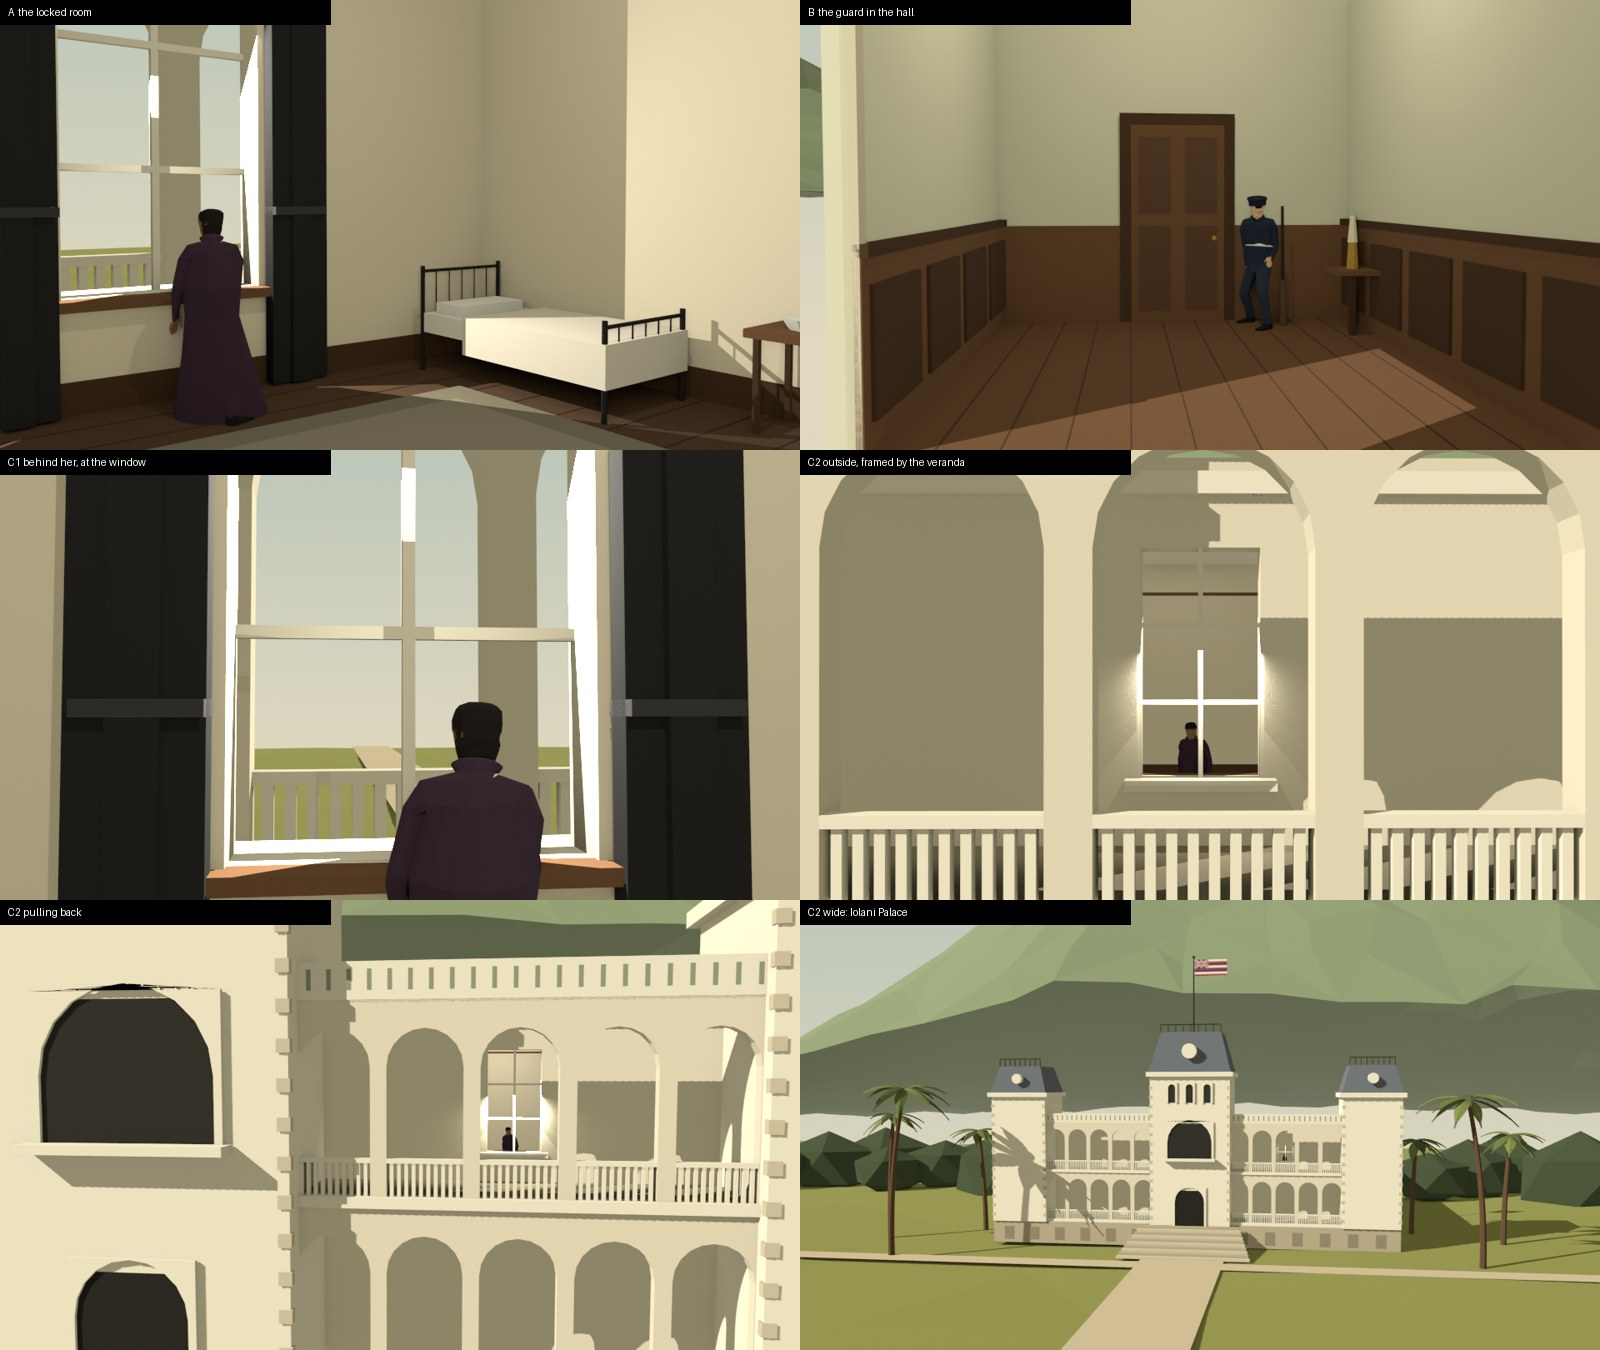
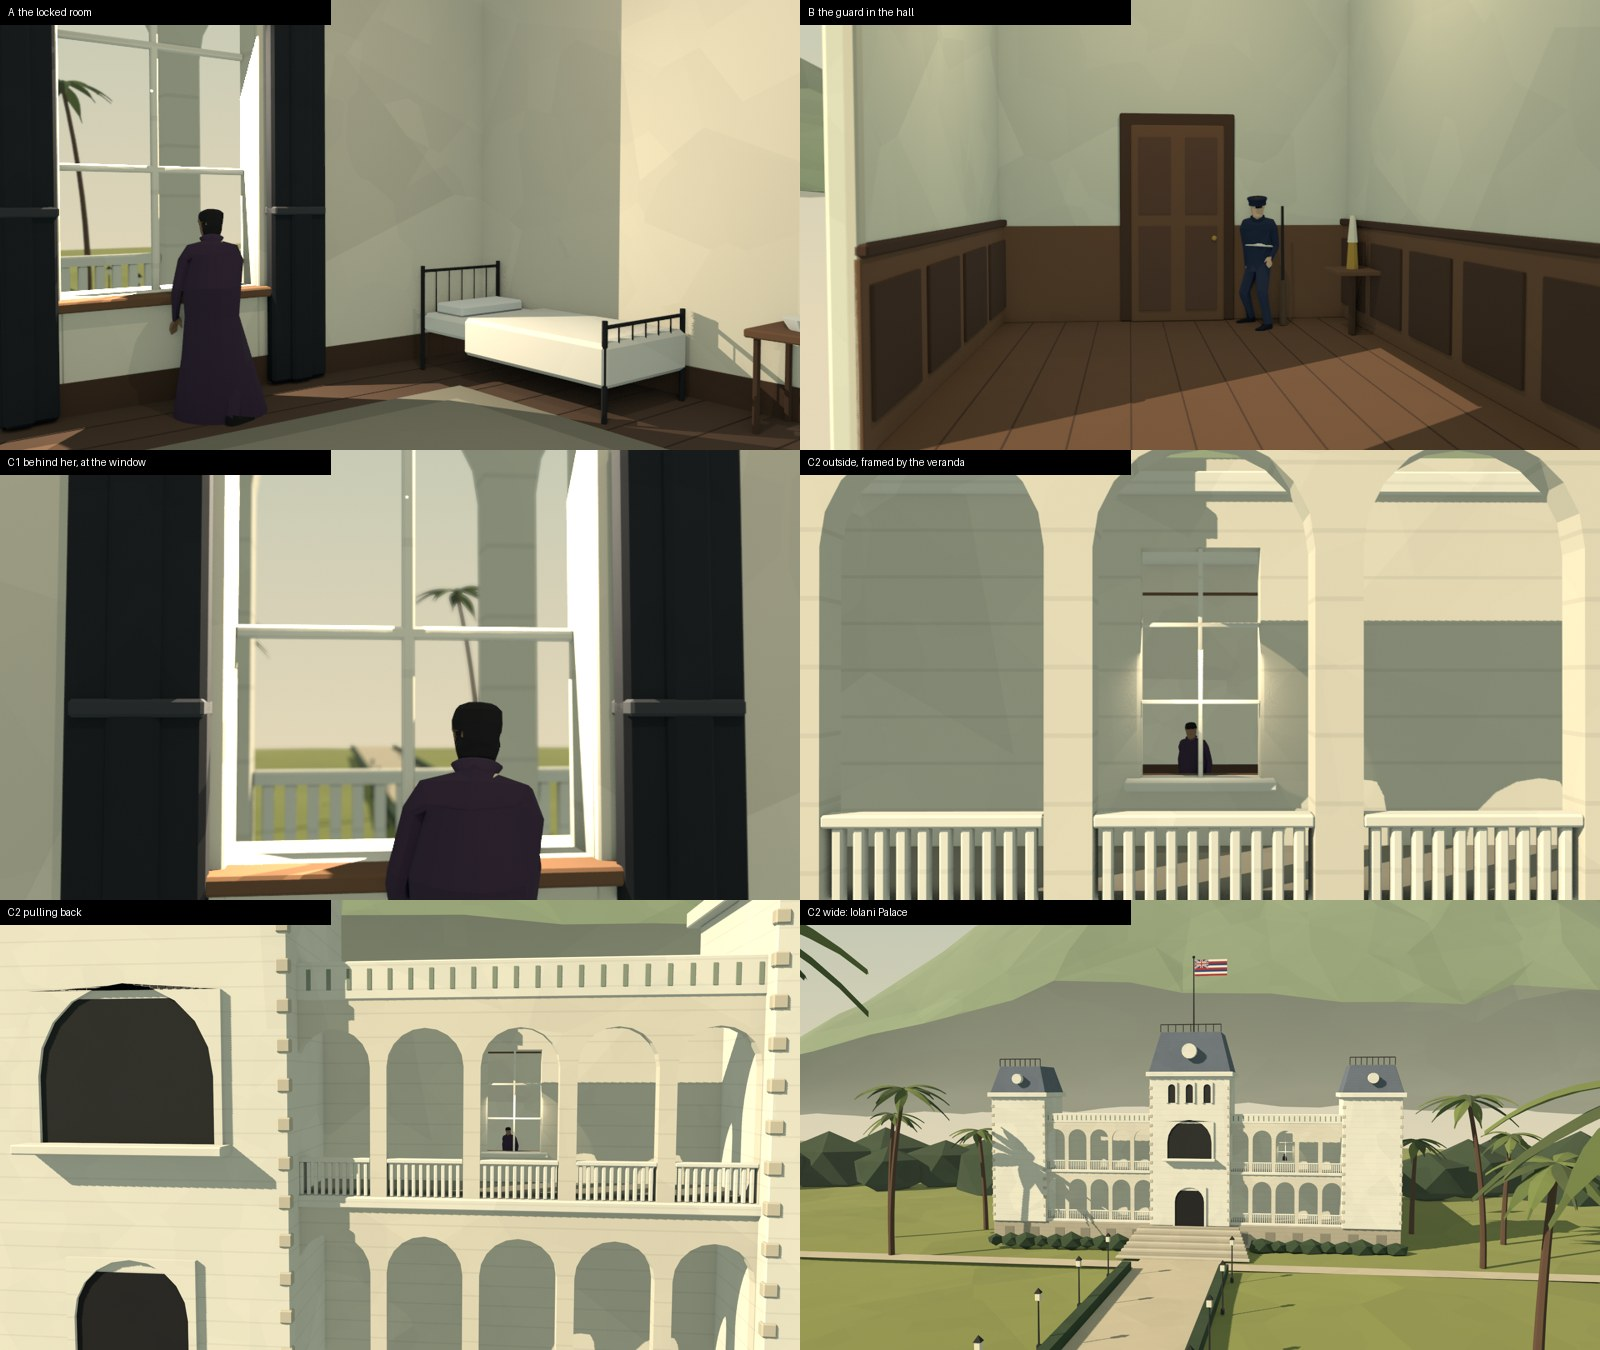
Blender finishing pass (look.py): faceted tone, stone and slate coursing, bevels, cool shadow fill, grade, haze; cold open gets depth layers, a window sun patch and shallow focus indoors
Claude-Session: https://claude.ai/code/session_017aRbDpLNGtaraWqxSrmG2S

diff --git a/projects/American_Imperialism/ep1/blender/look.py b/projects/American_Imperialism/ep1/blender/look.py
@@ -1,0 +1,128 @@
+# The finishing pass for every Blender world scene: what makes the flat-shaded models read like the Flow plates.
+#   facets   big polygonal patches of tone on every surface (a Voronoi field in world space), like the plates' painted walls
+#   courses  thin dark lines at a fixed height spacing: stone coursing, slate rows, clapboards
+#   bevels   a narrow chamfer on every block, so each edge catches the light or falls into shade
+#   light    cool sky fill in the shadows against the warm sun; deeper ambient occlusion; contact shadows
+#   grade    a gentle split tone in the compositor (teal lift, warm gain) and a little contrast; distance haze
+# Use: exec this file, then call finish(sc, rules) after the scene is built. Characters are left alone (their textures would
+# swim as they move), and so is anything with an image or emission shader.
+import bpy, math
+
+
+def _mul(nt, a, b, loc):
+    m = nt.nodes.new('ShaderNodeMixRGB')
+    m.blend_type, m.inputs['Fac'].default_value = 'MULTIPLY', 1.0
+    m.location = loc
+    nt.links.new(a, m.inputs['Color1'])
+    nt.links.new(b, m.inputs['Color2'])
+    return m.outputs['Color']
+
+
+def texture(m, amp=0.06, scale=0.32, course=None, line=0.92):
+    """facets of tone, and optionally course lines every `course` metres (world z)"""
+    nt = m.node_tree
+    b = nt.nodes.get('Principled BSDF')
+    if b is None or b.inputs['Base Color'].is_linked:
+        return
+    rgb = nt.nodes.new('ShaderNodeRGB')
+    rgb.outputs[0].default_value = tuple(b.inputs['Base Color'].default_value)
+    geo = nt.nodes.new('ShaderNodeNewGeometry')
+    out = rgb.outputs[0]
+    for k, (sc_, w) in enumerate(((scale, 0.7), (scale * 3.1, 0.3))):
+        v = nt.nodes.new('ShaderNodeTexVoronoi')
+        v.inputs['Scale'].default_value = sc_
+        v.inputs['Randomness'].default_value = 0.9
+        nt.links.new(geo.outputs['Position'], v.inputs['Vector'])
+        bw = nt.nodes.new('ShaderNodeRGBToBW')
+        nt.links.new(v.outputs['Color'], bw.inputs[0])
+        mr = nt.nodes.new('ShaderNodeMapRange')
+        mr.inputs['To Min'].default_value = 1 - amp * w
+        mr.inputs['To Max'].default_value = 1 + amp * w
+        nt.links.new(bw.outputs[0], mr.inputs['Value'])
+        out = _mul(nt, out, mr.outputs['Result'], (200 * k, 0))
+    if course:
+        wv = nt.nodes.new('ShaderNodeTexWave')
+        wv.wave_type, wv.bands_direction, wv.wave_profile = 'BANDS', 'Z', 'SAW'
+        wv.inputs['Scale'].default_value = 2 * math.pi / (20 * course)
+        wv.inputs['Distortion'].default_value = 0.0
+        wv.inputs['Detail'].default_value = 0.0
+        nt.links.new(geo.outputs['Position'], wv.inputs['Vector'])
+        cr = nt.nodes.new('ShaderNodeValToRGB')
+        cr.color_ramp.interpolation = 'CONSTANT'
+        cr.color_ramp.elements[0].position, cr.color_ramp.elements[0].color = 0.0, (line, line, line, 1)
+        cr.color_ramp.elements[1].position, cr.color_ramp.elements[1].color = 0.07, (1, 1, 1, 1)
+        nt.links.new(wv.outputs['Fac'], cr.inputs['Fac'])
+        out = _mul(nt, out, cr.outputs['Color'], (600, 0))
+    nt.links.new(out, b.inputs['Base Color'])
+
+
+def _is_person(ob):
+    p = ob
+    while p is not None:
+        if p.type == 'ARMATURE':
+            return True
+        p = p.parent
+    return False
+
+
+def bevels(max_w=0.035, frac=0.18):
+    """a one-segment chamfer on every plain block (8 vertices, no modifiers)"""
+    n = 0
+    for ob in bpy.data.objects:
+        if ob.type != 'MESH' or ob.hide_render or ob.modifiers or len(ob.data.vertices) != 8 or _is_person(ob):
+            continue
+        w = min(max_w, frac * min(ob.dimensions))
+        if w < 0.004:
+            continue
+        md = ob.modifiers.new('bevel', 'BEVEL')
+        md.width, md.segments, md.limit_method = w, 1, 'NONE'
+        n += 1
+    return n
+
+
+def finish(sc, rules=None, default=(0.06, 0.32, None, 0.92), haze=(40.0, 450.0, 0.4), shadow_fill='#a9bcbc', fill_strength=0.5):
+    """rules: {hex colour: (amp, scale, course or None, line darkness)}; every other scenery material gets `default`"""
+    rules = {k.lower(): v for k, v in (rules or {}).items()}
+    people = {s.material for ob in bpy.data.objects if _is_person(ob) for s in ob.material_slots if s.material}
+    for m in bpy.data.materials:
+        if m in people or not m.use_nodes:
+            continue
+        if any(n.type in ('TEX_IMAGE', 'EMISSION') for n in m.node_tree.nodes):
+            continue
+        texture(m, *rules.get(m.name.lower(), default))
+    nb = bevels()
+    # light: the sky lights the shadows a cool grey-green; contact shadows ground small things; deeper occlusion
+    w = sc.world.node_tree
+    for n in w.nodes:
+        if n.type == 'BACKGROUND' and not n.inputs['Color'].is_linked:
+            pass
+    amb = [n for n in w.nodes if n.type == 'BACKGROUND']
+    lp_mix = [n for n in w.nodes if n.type == 'MIX_SHADER'][0]
+    amb_node = lp_mix.inputs[1].links[0].from_node                    # the background the scene is lit by (not the one the camera sees)
+    for l in list(amb_node.inputs['Color'].links):
+        w.links.remove(l)
+    h = shadow_fill.lstrip('#')
+    c = [int(h[i:i + 2], 16) / 255 for i in (0, 2, 4)]
+    amb_node.inputs['Color'].default_value = tuple((v / 12.92 if v <= 0.04045 else ((v + 0.055) / 1.055) ** 2.4) for v in c) + (1,)
+    amb_node.inputs['Strength'].default_value = fill_strength
+    for lt in bpy.data.lights:
+        lt.use_contact_shadow = True
+        lt.contact_shadow_distance = 0.25
+        lt.contact_shadow_thickness = 0.15
+    ee = sc.eevee
+    ee.gtao_distance, ee.gtao_factor = 1.6, 1.5
+    ee.use_gtao_bent_normals = True
+    # haze: distance fades toward the horizon colour
+    sc.world.mist_settings.start, sc.world.mist_settings.depth = haze[0], haze[1]
+    ct = sc.node_tree
+    comp = [n for n in ct.nodes if n.type == 'COMPOSITE'][0]
+    mul = [n for n in ct.nodes if n.type == 'MATH'][0]
+    mul.inputs[1].default_value = haze[2]
+    src = comp.inputs['Image'].links[0].from_socket
+    cb = ct.nodes.new('CompositorNodeColorBalance')
+    cb.correction_method = 'LIFT_GAMMA_GAIN'
+    cb.lift = (0.993, 1.0, 1.008)
+    cb.gain = (1.03, 1.0, 0.96)
+    ct.links.new(src, cb.inputs['Image'])                            # (no contrast node: on linear values it crushes the darks to black)
+    ct.links.new(cb.outputs['Image'], comp.inputs['Image'])
+    print('LOOK: textured materials, bevels on', nb, 'blocks')

diff --git a/projects/American_Imperialism/ep1/blender/coldopen.py b/projects/American_Imperialism/ep1/blender/coldopen.py
@@ -333,6 +333,39 @@ for ci, (cx, cyy, cz, cw) in enumerate(((-90, 330, 110, 85), (100, 340, 95, 75),
     for k in range(9):
         ico(f'cl{ci}{k}', (cx + (k - 4) * cw * 0.12, cyy + (k % 3) * 5, cz + (k % 2) * 4), cw * (0.2 + 0.03 * (k % 3)), '#ead9ae', 1, (1.4, 0.8, 0.75), seed=ci * 20 + k)
 
+# depth layers for the pull-back: low hedges and iron lamp posts along the walk (repeats that shrink into the distance),
+# shrubs along the basement, and two tall palms near the camera's last position whose crowns frame the top corners
+HEDGE = '#3c4a30'
+for sx in (-1, 1):
+    box(f'hedge{sx}', sx * 4.6 - 0.45, -150, 0.0, sx * 4.6 + 0.45, -11.0, 0.85, HEDGE)
+    for k in range(7):
+        y = -14 - k * 9.0
+        x = sx * 5.6
+        cyl(f'lp{sx}{k}', (x, y, 0), (x, y, 3.3), 0.07, 0.05, IRON, n=6)
+        box(f'lpb{sx}{k}', x - 0.14, y - 0.14, 0, x + 0.14, y + 0.14, 0.4, IRON)
+        box(f'lpl{sx}{k}', x - 0.17, y - 0.17, 3.3, x + 0.17, y + 0.17, 3.8, '#e9dfbf')
+        mesh_from(f'lpc{sx}{k}', [(x - 0.22, y - 0.22, 3.8), (x + 0.22, y - 0.22, 3.8), (x + 0.22, y + 0.22, 3.8), (x - 0.22, y + 0.22, 3.8), (x, y, 4.15)],
+                  [(0, 1, 4), (1, 2, 4), (2, 3, 4), (3, 0, 4)], IRON)
+for k in range(26):
+    x = -21.5 + k * 1.72
+    if abs(x) > 6.2:
+        ico(f'shrub{k}', (x, -1.6, 0.5), 0.85 + 0.2 * (k % 3), HEDGE, 1, (1.2, 0.9, 0.8), seed=200 + k)
+CG['palm'](21.5, -57, 17, -0.08, 12, 4.8, 77)
+CG['palm'](-5.0, -64, 21, 0.12, 12, 4.6, 78)
+CG['palm'](24.0, -36, 13, 0.05, 12, 3.8, 79)
+
+# the sun through the Queen's window: a hard spot along the sun's own direction, so the floor gets a window-shaped patch
+bpy.context.view_layer.update()
+SD = bpy.data.objects['sun'].matrix_world.to_3x3() @ Vector((0, 0, -1))
+sp = bpy.data.lights.new('winsun', 'SPOT')
+sp.energy, sp.color, sp.shadow_soft_size, sp.spot_size, sp.spot_blend = 2600, (1.0, 0.9, 0.72), 0.0, math.radians(32), 0.05
+spo = bpy.data.objects.new('winsun', sp)
+sc.collection.objects.link(spo)
+wc = Vector((WX, 3.0, RZ0 + 2.45))
+spo.location = wc - SD * 2.2
+spo.rotation_euler = SD.to_track_quat('-Z', 'Y').to_euler()
+print('SUN DIR', tuple(round(v, 2) for v in SD), 'winsun at', tuple(round(v, 2) for v in spo.location))
+
 # sway for the palms (stepped at 12 fps)
 for f in range(0, N):
     tq = math.floor(f / FPS * 12) / 12
@@ -343,6 +376,16 @@ for ob, *_ in CG['MOVERS']:
     for fc in ob.animation_data.action.fcurves:
         for kp in fc.keyframe_points:
             kp.interpolation = 'CONSTANT'
+
+
+# ---- the finishing pass: facets, coursing, bevels, cool shadow fill, grade, haze (look.py)
+LK = {'__name__': 'look'}
+exec(compile(open(os.path.join(HERE, 'look.py')).read(), os.path.join(HERE, 'look.py'), 'exec'), LK)
+LK['finish'](sc, fill_strength=0.75, rules={
+    STONE: (0.08, 0.3, 0.62, 0.9), STONE_LT: (0.08, 0.3, 0.62, 0.91), STONE_DK: (0.05, 0.3, None, 1.0), BASE: (0.07, 0.3, 0.45, 0.84),
+    SLATE: (0.08, 0.6, 0.28, 0.85), SLATE_DK: (0.08, 0.6, 0.28, 0.85), WALL: (0.13, 0.5, None, 1.0), HWALL: (0.12, 0.42, None, 1.0),
+    LAWN: (0.12, 0.08, None, 1.0), '#7d8b69': (0.14, 0.02, None, 1.0), PATH: (0.08, 0.2, None, 1.0), '#ead9ae': (0.04, 0.03, None, 1.0),
+    CURT: (0.12, 1.6, None, 1.0), HEDGE: (0.12, 0.4, None, 1.0), '#3f4b33': (0.12, 0.15, None, 1.0)})
 
 # ================================================================ cameras: one camera, cut between shots by jumping
 cam, tgt = sc.camera, bpy.data.objects['target']
@@ -367,8 +410,24 @@ for ob in (cam, tgt):
             # a jump between shots: hold until the cut frame
             kp.interpolation = 'CONSTANT' if f in (FB - 1, FC1 - 1, FC2 - 1) else 'BEZIER'
             kp.handle_left_type = kp.handle_right_type = 'AUTO_CLAMPED'
+
+# ---- shallow focus indoors (a miniature's depth of field), sharp outside; focus follows the subject of each shot
+cam.data.dof.use_dof = True
+cfc = {fc.array_index: fc for fc in cam.animation_data.action.fcurves if fc.data_path == 'location'}
+SUBJ = [(FA, FB, Vector((QX, QY, RZ0 + 1.5)), 1.4), (FB, FC1, Vector((GX, GY, 1.4)), 1.6), (FC1, FC2, Vector((QX, QY, RZ0 + 1.55)), 1.4),
+        (FC2, FC2 + 150, Vector((WX, 3.0, RZ0 + 2.0)), 8.0), (FC2 + 150, N, Vector((0, 4, 12)), 22.0)]
+for a, b, P, fs in SUBJ:
+    for f in list(range(a, b, 6)) + [b - 1]:
+        c = Vector([cfc[i].evaluate(f) for i in range(3)])
+        cam.data.dof.focus_distance = (P - c).length
+        cam.data.dof.aperture_fstop = fs
+        cam.data.dof.keyframe_insert('focus_distance', frame=f)
+        cam.data.dof.keyframe_insert('aperture_fstop', frame=f)
+for fc in cam.data.animation_data.action.fcurves:
+    for kp in fc.keyframe_points:
+        kp.interpolation = 'CONSTANT' if fc.data_path.endswith('fstop') else 'LINEAR'
 sc.render.resolution_percentage = SCALE
-for lt, on in ((wl, 260), (rf, 70)):                       # the room's lamps are off for the exterior shot (they glow through the glass)
+for lt, on in ((wl, 260), (rf, 70), (sp, 2600)):                       # the room's lamps are off for the exterior shot (they glow through the glass)
     lt.energy = on; lt.keyframe_insert('energy', frame=0)
     lt.energy = on * 0.08; lt.keyframe_insert('energy', frame=FC2)
     for kp in lt.animation_data.action.fcurves[0].keyframe_points:
